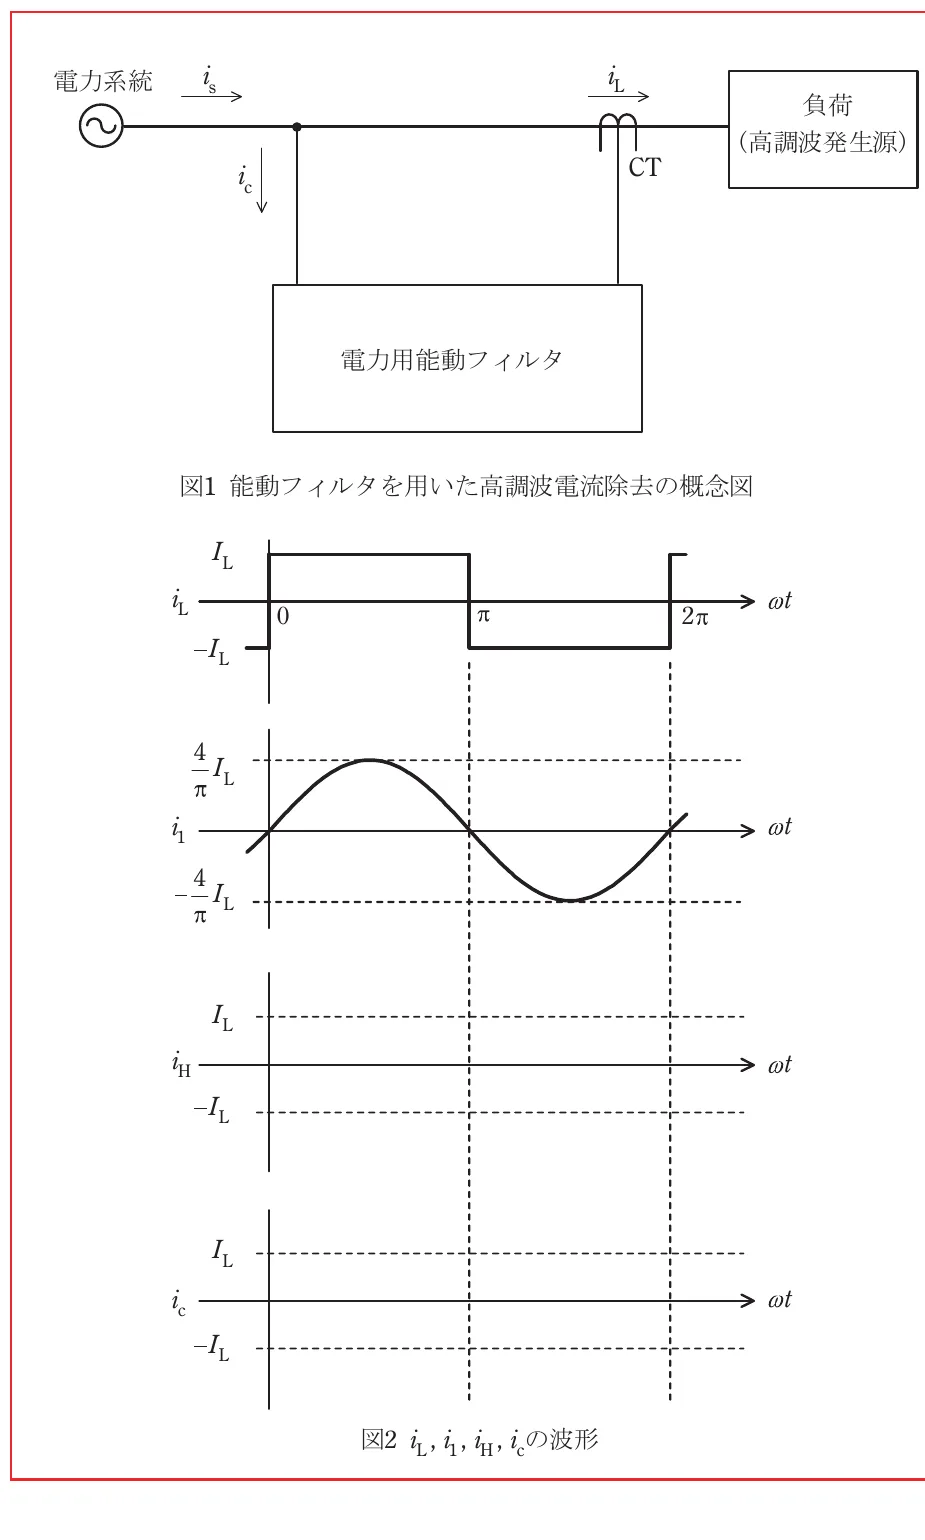
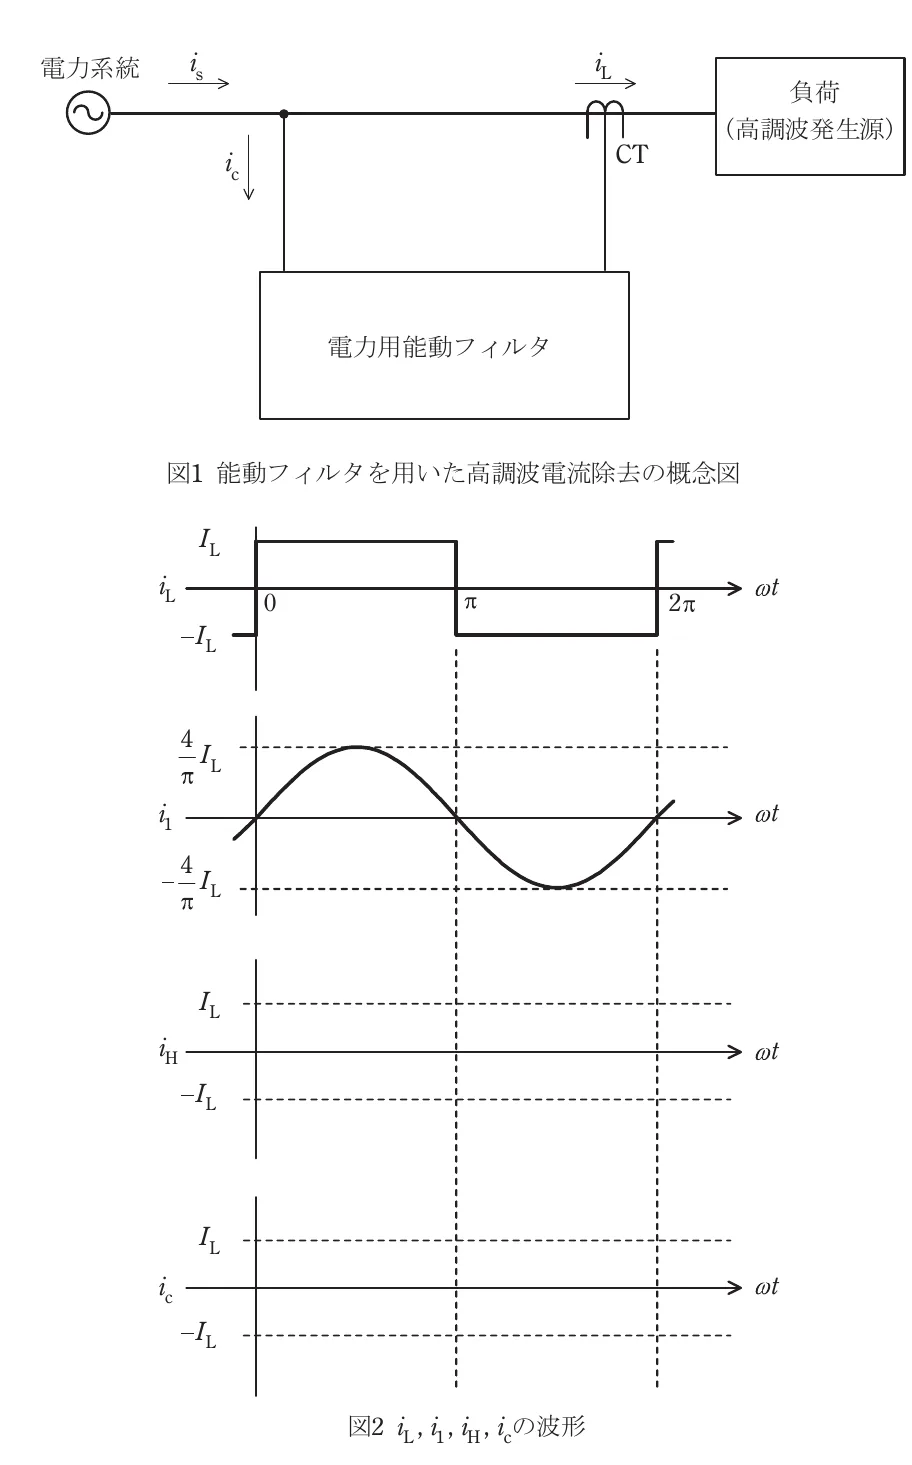
Update R05 and R04 review fixes

diff --git a/AnkiTapWeb/app.js b/AnkiTapWeb/app.js
@@ -933,6 +933,7 @@ function renderPastProblem(question) {
   }
 
   elements.pastQuestionImage.textContent = "";
+  elements.pastQuestionImage.classList.remove("past-question-image-full-height");
 
   if (!question.questionImage) {
     elements.pastQuestionImage.closest(".past-question-panel").classList.add("no-question-image");
@@ -950,6 +951,9 @@ function renderPastProblem(question) {
   if (isFitWidthQuestionFigure(question)) {
     image.classList.add("past-question-img-fit-width");
   }
+  if (question.id === "r05_second_kikai_seigyo_q03") {
+    elements.pastQuestionImage.classList.add("past-question-image-full-height");
+  }
   image.alt = "過去問の問題図";
   setImageSource(image, question.questionImage);
   elements.pastQuestionImage.append(image);
@@ -960,6 +964,7 @@ function isFitWidthQuestionFigure(question) {
     "r06_second_kikai_seigyo_q03",
     "r06_second_denryoku_kanri_q04",
     "r05_second_kikai_seigyo_q02",
+    "r05_second_kikai_seigyo_q03",
     "r05_second_kikai_seigyo_q04",
     "r05_second_denryoku_kanri_q03",
     "r05_second_denryoku_kanri_q04",

diff --git a/AnkiTapWeb/style.css b/AnkiTapWeb/style.css
@@ -329,6 +329,11 @@ progress::-webkit-progress-value {
   max-height: none;
 }
 
+.past-question-image.past-question-image-full-height {
+  max-height: none;
+  overflow: visible;
+}
+
 .past-answer-panel {
   display: grid;
   grid-template-rows: auto minmax(96px, 1fr);